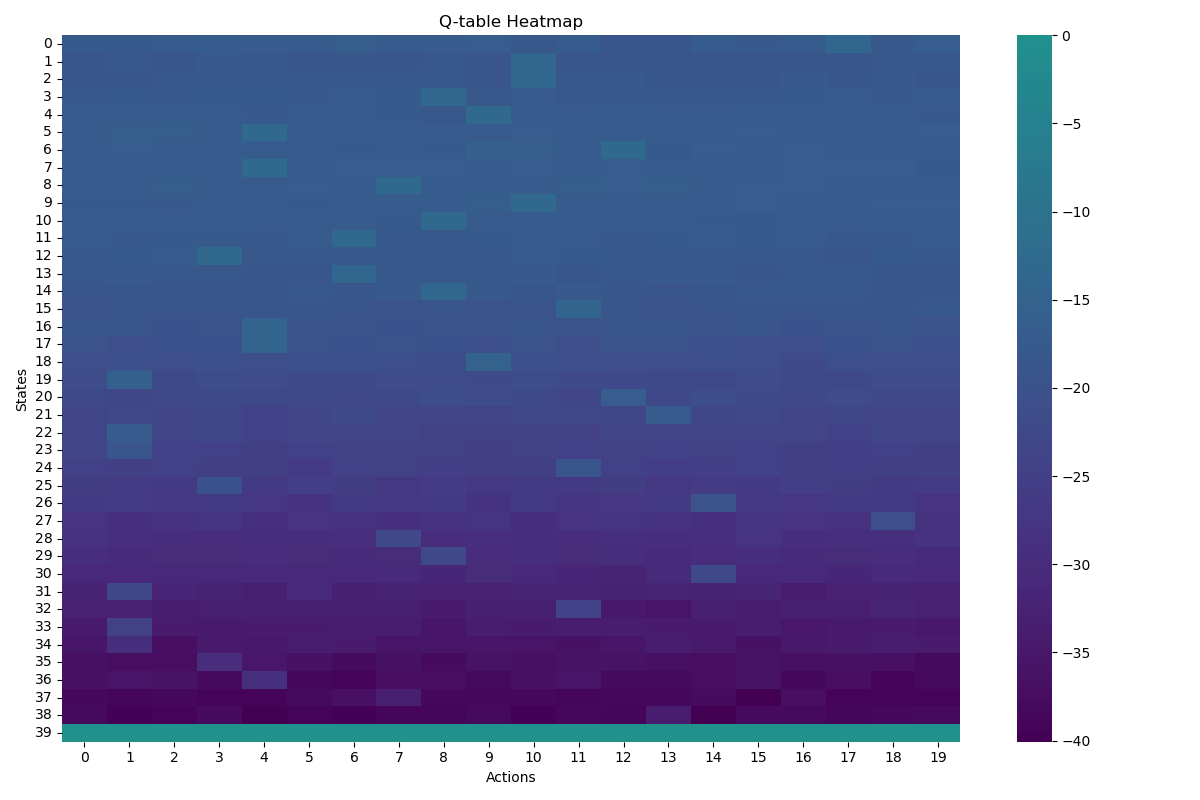
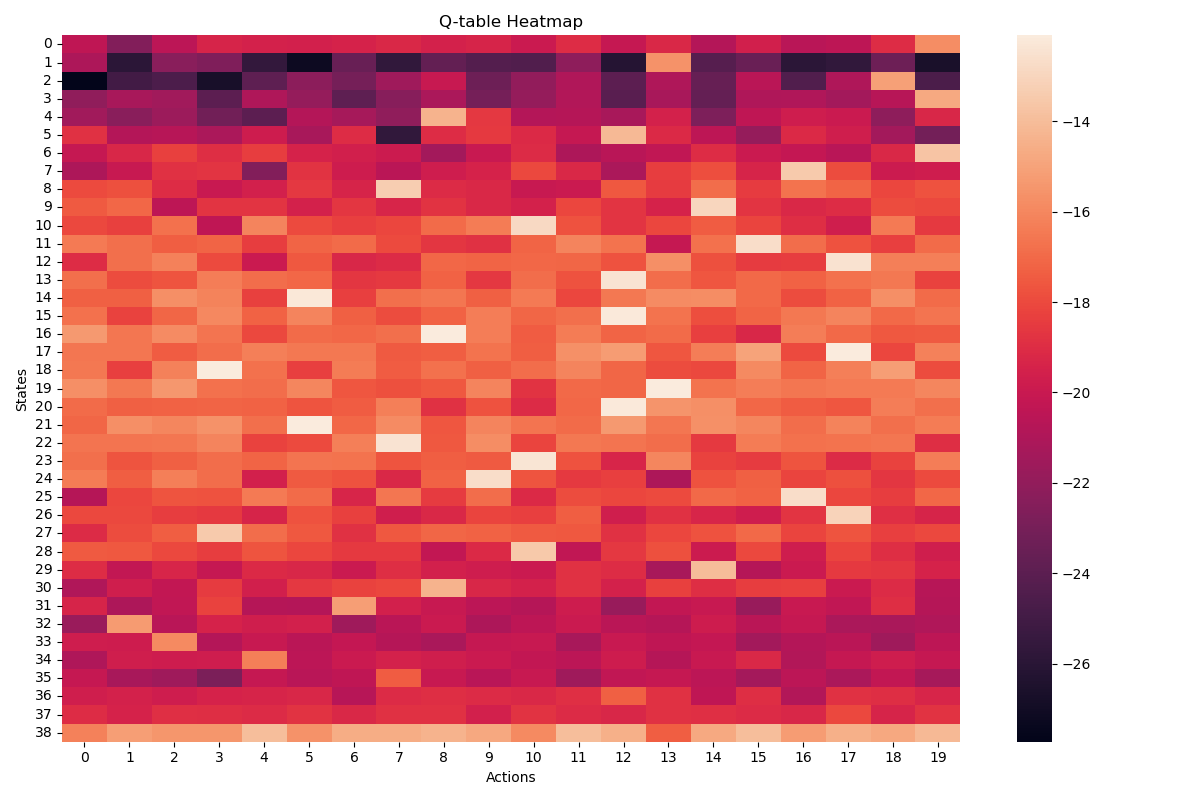
want to stream the data

diff --git a/main.html b/main.html
@@ -18,10 +18,10 @@
     </script>
   </head>
   <body>
-    <div id="d761c093-13aa-4581-b803-ae5a5fa45515" data-root-id="p1042" style="display: contents;"></div>
+    <div id="c8341973-a9e8-444e-a368-403cdb734301" data-root-id="p1042" style="display: contents;"></div>
   
     <script type="application/json" id="p1082">
[2 lines of base64/hex data omitted]
     </script>
     <script type="text/javascript">
       (function() {
@@ -30,7 +30,7 @@
             (function(root) {
               function embed_document(root) {
               const docs_json = document.getElementById('p1082').textContent;
-              const render_items = [{"docid":"decb8e7d-5f38-4c42-9dee-35c8e80d2bdd","roots":{"p1042":"d761c093-13aa-4581-b803-ae5a5fa45515"},"root_ids":["p1042"]}];
+              const render_items = [{"docid":"9b2d4952-2350-4432-9e23-8ca856e81743","roots":{"p1042":"c8341973-a9e8-444e-a368-403cdb734301"},"root_ids":["p1042"]}];
               root.Bokeh.embed.embed_items(docs_json, render_items);
               }
               if (root.Bokeh !== undefined) {

diff --git a/main.py b/main.py
@@ -265,7 +265,7 @@ def main():
 
             # Update the Q-table
             agent.update_q_table(state, action, reward, next_state)
-            agent.update_v_table(state,reward,next_state)
+            agent.update_v_table(state, reward, next_state)
 
             # Accumulate the reward
             total_rewards += reward
@@ -314,13 +314,12 @@ def main():
     # Save a copy of the trained q_table in the directory
     np.save(os.path.join(run_directory, "q_table.npy"), agent.q_table)
     np.save(os.path.join(run_directory, "v_table.npy"), agent.v_table)
-   
 
     # Plot total rewards vs episodes
     plot_total_rewards(rewards_per_episode)
-    #plot_q_table_heatmap(agent.q_table[:50, :])
-    plot_v_table(agent.v_table)
-    #run_episode_for_plotting(agent, supply_chain, k, theta, time_units_per_episode)
+    plot_q_table_heatmap(agent.q_table[:39, :])
+    plot_v_table(agent.v_table, k, theta)
+    # run_episode_for_plotting(agent, supply_chain, k, theta, time_units_per_episode)
 
 
 def plot_total_rewards(rewards_per_episode):
@@ -345,22 +344,21 @@ def plot_total_rewards(rewards_per_episode):
 
     show(p2)
 
-def plot_v_table(v_table):
+
+def plot_v_table(v_table, k, theta):
     """
     Create a bar plot of the v_table using bokeh
 
     :param v_table: The V-table to visualize
     """
     p3 = figure(
-        title="V-table",
+        title=f"V-table k={k}, theta={theta}",
         x_axis_label="States",
         y_axis_label="Values",
         x_range=(0, len(v_table)),
     )
     p3.vbar(x=list(range(len(v_table))), top=v_table, width=0.9)
     show(p3)
-    
-
 
 
 def plot_q_table_heatmap(q_table):
@@ -370,7 +368,7 @@ def plot_q_table_heatmap(q_table):
     :param q_table: The Q-table to visualize
     """
     plt.figure(figsize=(12, 8))
-    sns.heatmap(q_table, cmap="viridis", center=0)
+    sns.heatmap(q_table)
     plt.title("Q-table Heatmap")
     plt.xlabel("Actions")
     plt.ylabel("States")
